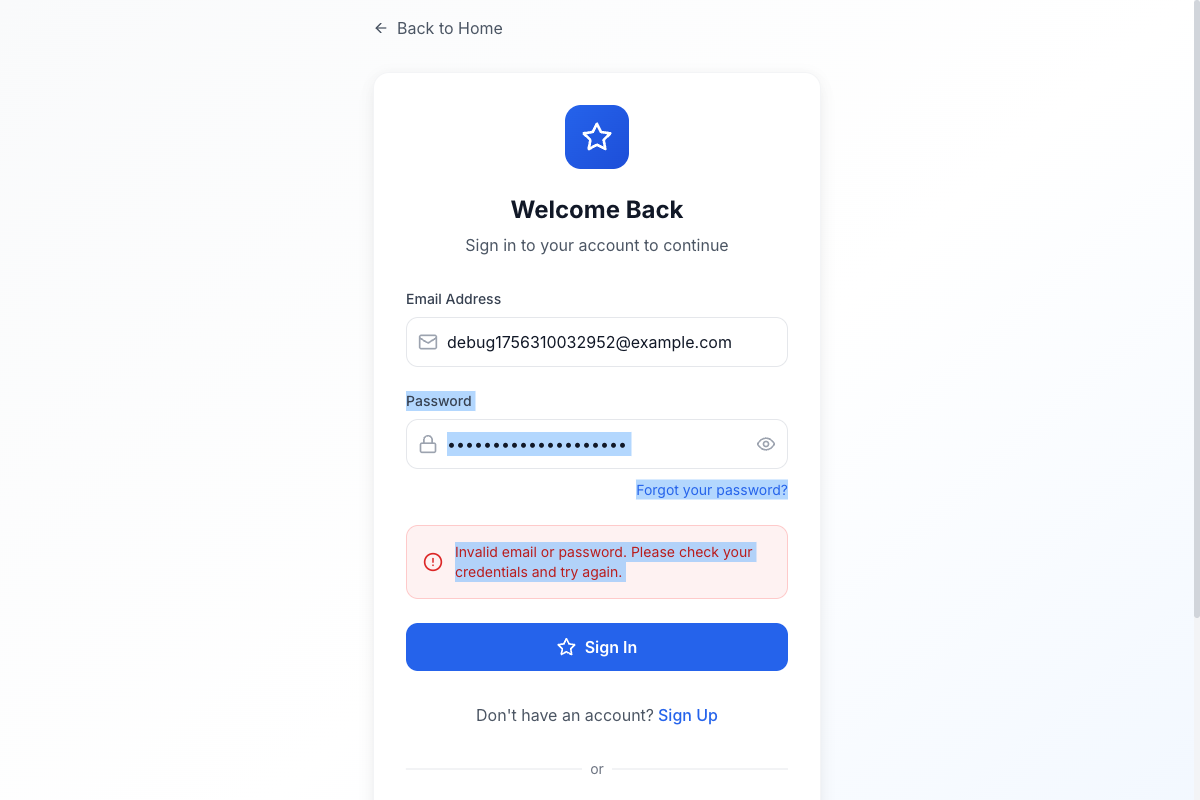
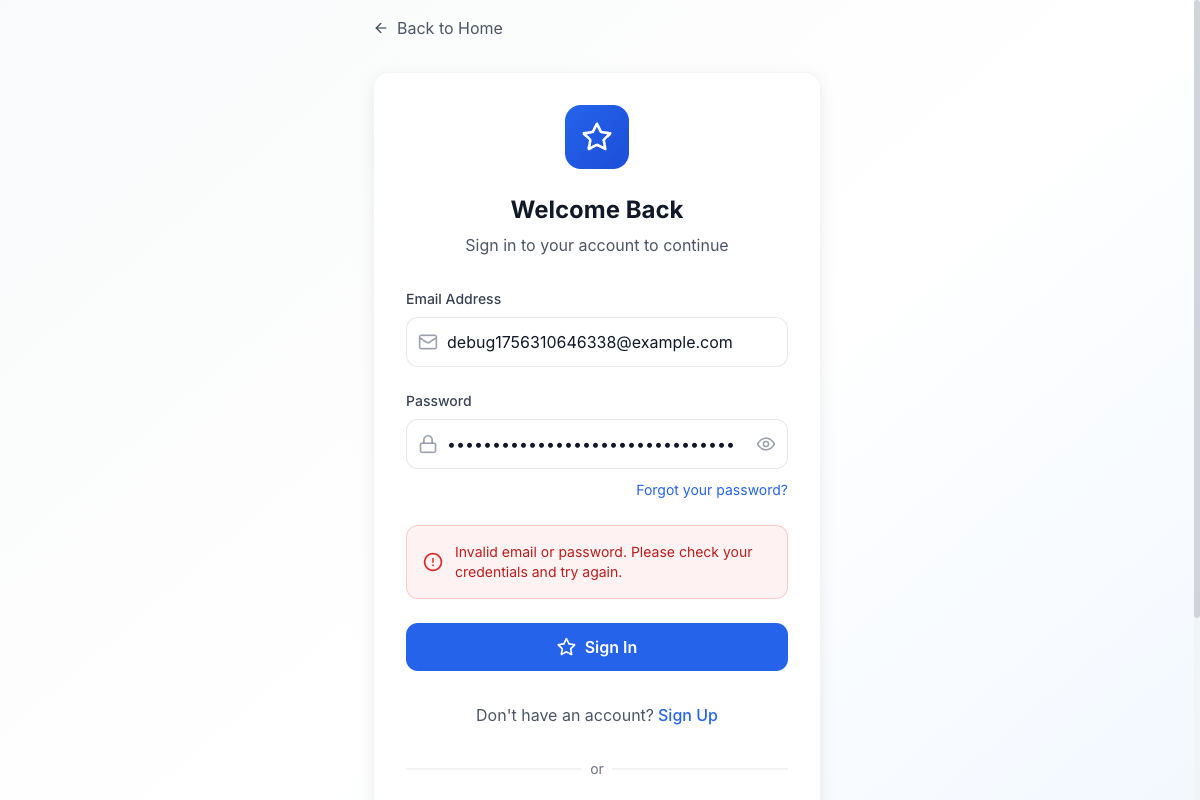
Deploy version GITHUB-20250827-110953 - 20250827-110953

diff --git a/src/app/auth/page.tsx b/src/app/auth/page.tsx
@@ -122,13 +122,14 @@ export default function AuthPage() {
         } catch (signInError: any) {
           console.error('Sign-in error details:', signInError);
           
-          // Handle specific sign-in errors
-          if (signInError.code === 'auth/user-not-found') {
+          // Special handling for unverified accounts
+          if (signInError.code === 'auth/invalid-credential') {
+            // This could be an unverified account - show helpful message
+            setError('Please verify your email address before signing in. If you just created an account, check your inbox for a verification link.');
+          } else if (signInError.code === 'auth/user-not-found') {
             setError('No account found with this email. Please sign up instead.');
           } else if (signInError.code === 'auth/wrong-password') {
             setError('Incorrect password. Please try again.');
-          } else if (signInError.code === 'auth/invalid-credential') {
-            setError('Invalid email or password. Please check your credentials and try again.');
           } else if (signInError.code === 'auth/too-many-requests') {
             setError('Too many failed attempts. Please try again later.');
           } else if (signInError.code === 'auth/user-disabled') {
@@ -297,6 +298,9 @@ export default function AuthPage() {
                         <div className="mt-3 p-3 bg-blue-50 border border-blue-200 rounded-lg">
                           <p className="text-blue-700 text-xs mb-2">
                             📧 Check your email for a verification link. Click the link to verify your account, then come back to sign in.
+                          </p>
+                          <p className="text-blue-600 text-xs mb-2">
+                            💡 <strong>Important:</strong> After verifying your email, you'll be able to sign in successfully.
                           </p>
                           <button
                             type="button"
